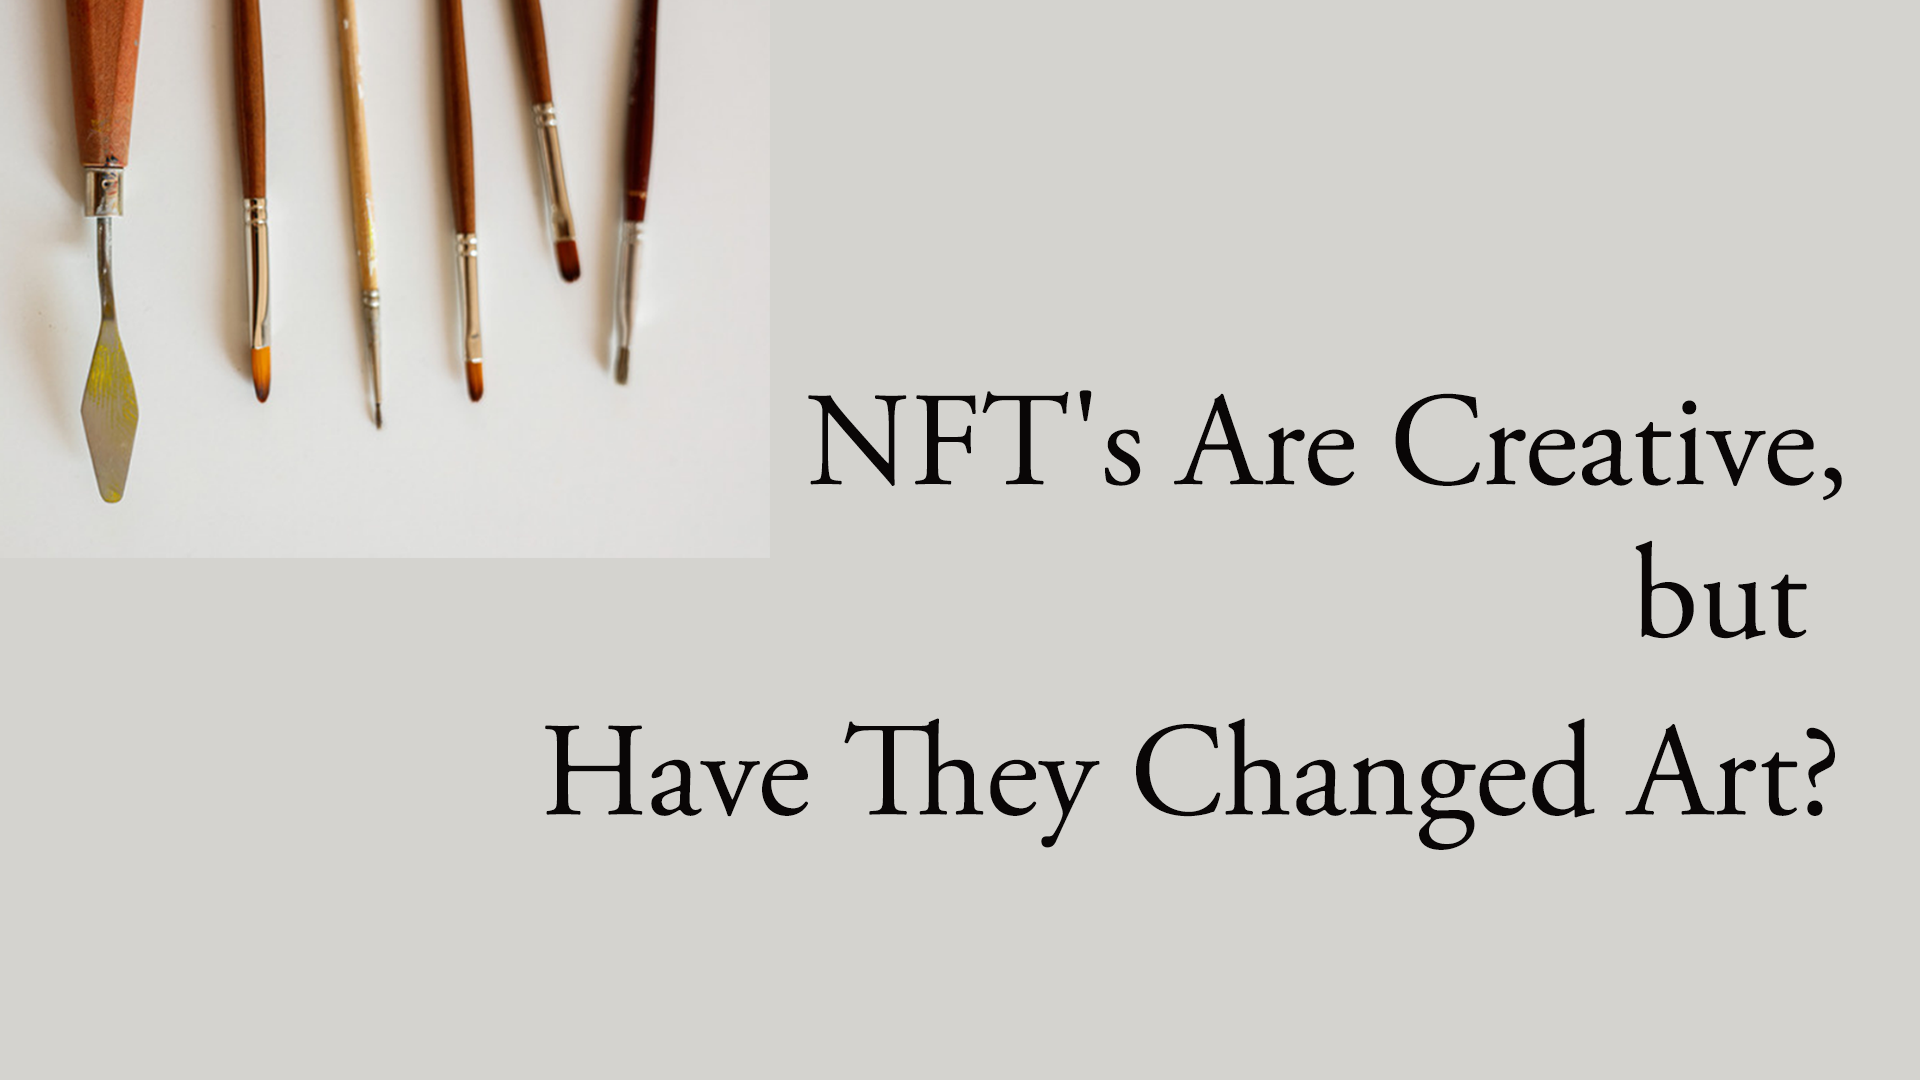
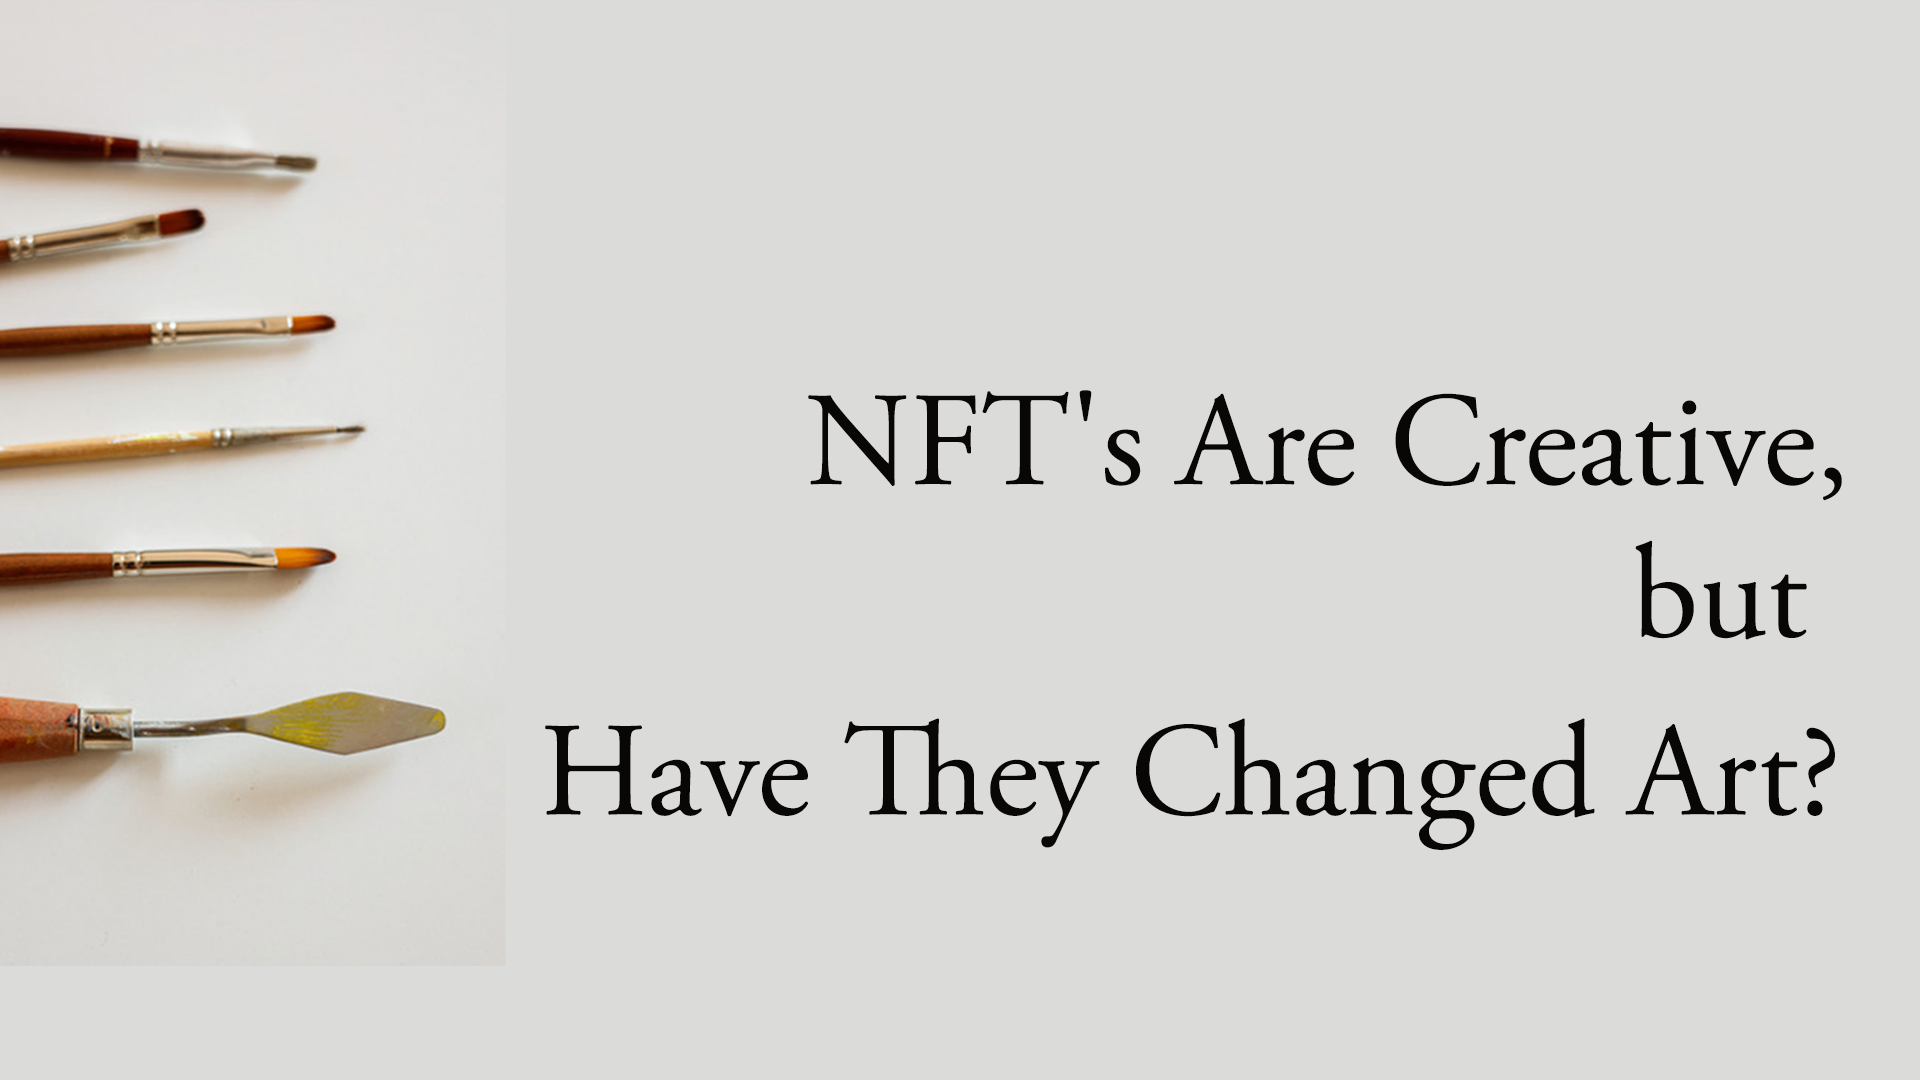
edits.

Changed region(s): [[0.0, 0.0, 0.3438, 0.4583], [0.0, 0.6417, 0.25, 0.7639], [0.0, 0.4889, 0.1875, 0.5806]]

diff --git a/Midterm/index.html b/Midterm/index.html
@@ -10,18 +10,7 @@
 <body>
 
 <div id="container">
-<img src="https://adryannnn.github.io/adryan-nash-JOUR-352/Midterm/images/topper.png">
-      <div id="TOP-left">
-          <img src="https://adryannnn.github.io/adryan-nash-JOUR-352/Midterm/images/art-brushes.png"  width="50%" height="auto" alt="Paint Brushes ">
-
-
-            <div id="TOP-right">
-          <h1> NFT's Are Creative, but Have They Changed Art?</h1>
-          <!--- Orginal title: One Year After Beeple, the NFT Has Changed Artists. Has It Changed Art? -->
-          </div>
-
-
-      </div>
+    <img src="https://adryannnn.github.io/adryan-nash-JOUR-352/Midterm/images/topper.png"width="100%" height="auto" alt="topper title with paint brushes">
 
         <h3><p>Blake Gopnik<br></h3>
         <p>New York Times</p>

diff --git a/Midterm/styles.css b/Midterm/styles.css
@@ -1,6 +1,6 @@
 /* styles for midterm Pt.2 assignment */
 body {
-  background-color: #f4f8fb;
+  background-color:#d4d3cf;
 }
 
 h1 {
